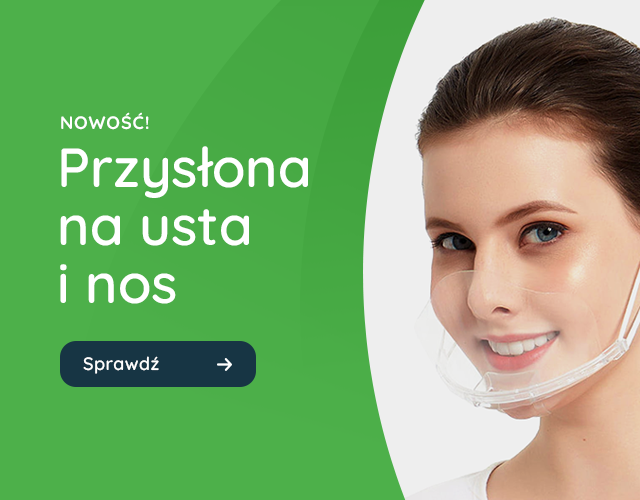
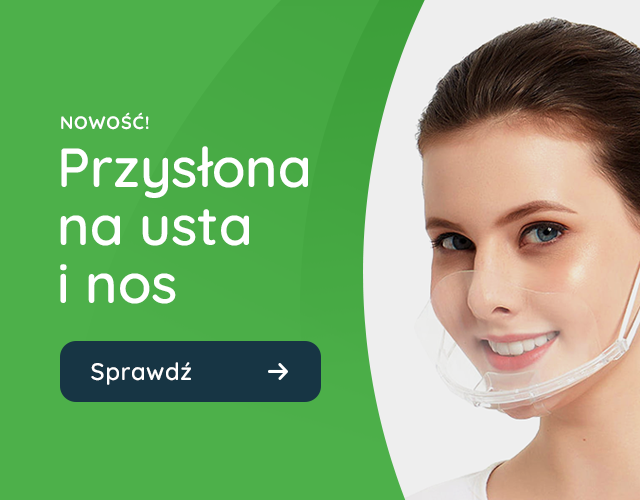
Added slider

Changed region(s): [[0.0938, 0.66, 0.5, 0.81]]

diff --git a/css/custom-style.css b/css/custom-style.css
@@ -44,9 +44,33 @@ a .img-container img:hover {
 
 .slider-section {
   background-position: center;
-  align-items: center; }
-  .slider-section img {
-    border-radius: 16px; }
+  align-items: center;
+  position: relative;
+  border-radius: 16px;
+  -webkit-border-radius: 16px;
+  -moz-border-radius: 16px;
+  overflow: hidden; }
+  .slider-section .col {
+    padding: 0; }
+  .slider-section .tns-nav {
+    position: absolute;
+    top: 88%;
+    left: 50%;
+    transform: translateX(-50%);
+    z-index: 2; }
+    .slider-section .tns-nav > button {
+      width: 12px;
+      height: 12px;
+      background: none;
+      border: solid 3px #8b8b8b;
+      border-radius: 999px;
+      -webkit-border-radius: 999px;
+      -moz-border-radius: 999px;
+      margin: 5px;
+      padding: 0;
+      overflow: hidden; }
+    .slider-section .tns-nav .tns-nav-active {
+      border-color: #0f2735; }
 
 .product-section img {
   border-radius: 16px;
@@ -105,7 +129,7 @@ a .img-container img:hover {
   .product-section .product-container .price-old {
     font-size: 1rem;
     font-weight: 300;
-    color: grey;
+    color: #8b8b8b;
     text-decoration: line-through; }
 
 .news-section img {
@@ -119,7 +143,7 @@ a .img-container img:hover {
     line-height: 1.5rem;
     margin-bottom: 15px; }
   .news-section .news-container .news-info {
-    color: grey;
+    color: #8b8b8b;
     margin-bottom: 15px; }
   .news-section .news-container .more-link {
     color: #4db04a;
@@ -139,7 +163,7 @@ a .img-container img:hover {
   .aboutus-section h1, .aboutus-section h2 {
     color: white; }
   .aboutus-section p {
-    color: #e2e2e2;
+    color: #f0f0f0;
     text-align: justify; }
 
 .contact-section .contact-info {
@@ -163,5 +187,30 @@ a .img-container img:hover {
     .contact-section .contact-action .contact-data i {
       margin-right: 10px;
       color: #4db04a; }
+
+.footer-section {
+  width: 100%;
+  padding: 12px 0;
+  background-color: #f0f0f0;
+  z-index: 99; }
+  .footer-section .container, .footer-section .container-fluid {
+    display: flex;
+    flex-wrap: wrap;
+    align-items: center;
+    justify-content: space-between;
+    padding: 0 30px; }
+    .footer-section .container .footer-copyrights, .footer-section .container-fluid .footer-copyrights {
+      text-align: center; }
+    .footer-section .container nav, .footer-section .container-fluid nav {
+      text-align: center; }
+      .footer-section .container nav ul li, .footer-section .container-fluid nav ul li {
+        display: inline;
+        margin: 10px; }
+        .footer-section .container nav ul li a:hover, .footer-section .container-fluid nav ul li a:hover {
+          text-decoration: underline; }
+        @media (max-width: 960px) {
+          .footer-section .container nav ul li, .footer-section .container-fluid nav ul li {
+            display: block;
+            text-align: center; } }
 
 /*# sourceMappingURL=custom-style.css.map */

diff --git a/css/grid-system.css b/css/grid-system.css
@@ -16,9 +16,9 @@
 .color-black {
   color: black !important; }
 .color-grey {
-  color: grey !important; }
+  color: #8b8b8b !important; }
 .color-light-grey {
-  color: #e2e2e2 !important; }
+  color: #f0f0f0 !important; }
 .color-dark-grey {
   color: #363636 !important; }
 
@@ -35,9 +35,9 @@
 .bg-black {
   background-color: black !important; }
 .bg-grey {
-  background-color: grey !important; }
+  background-color: #8b8b8b !important; }
 .bg-light-grey {
-  background-color: #e2e2e2 !important; }
+  background-color: #f0f0f0 !important; }
 .bg-dark-grey {
   background-color: #363636 !important; }
 
@@ -3586,7 +3586,7 @@ body {
   padding: 22px 0;
   background-color: white;
   color: #363636;
-  border-bottom: solid 1px #e2e2e2;
+  border-bottom: solid 1px #f0f0f0;
   z-index: 99;
   transition: 0.3s;
   -webkit-transition: 0.3s;
@@ -3655,7 +3655,7 @@ body {
       width: 12px;
       height: 12px;
       background: none;
-      border: solid 3px grey;
+      border: solid 3px #8b8b8b;
       border-radius: 999px;
       -webkit-border-radius: 999px;
       -moz-border-radius: 999px;
@@ -3738,8 +3738,8 @@ body {
       color: #091821; }
   .btn-light-outlined {
     background: none;
-    border-color: #e2e2e2;
-    color: #e2e2e2; }
+    border-color: #f0f0f0;
+    color: #f0f0f0; }
     .btn-light-outlined:hover {
       border-color: #ffffff;
       color: white; }
@@ -3763,7 +3763,7 @@ body {
 
 .card {
   background-color: white;
-  border: solid 1px #e2e2e2;
+  border: solid 1px #f0f0f0;
   padding: 15px;
   display: flex;
   flex-direction: column;
@@ -3820,7 +3820,7 @@ body {
       font-weight: bold; }
     .card .card-content .card-subtitle {
       font-size: 0.9rem;
-      color: grey; }
+      color: #8b8b8b; }
     .card .card-content .card-main-text {
       color: #363636; }
   .card .card-links {
@@ -3837,12 +3837,12 @@ body {
 
 .faq {
   width: 100%;
-  border: solid 1px #e2e2e2;
+  border: solid 1px #f0f0f0;
   border-radius: 16px;
   -webkit-border-radius: 16px;
   -moz-border-radius: 16px; }
   .faq .faq-title {
-    background-color: #efefef;
+    background-color: #fdfdfd;
     cursor: pointer;
     padding: 15px;
     display: flex;
@@ -3876,7 +3876,7 @@ body {
       -moz-border-radius-bottomleft: 16px; }
     .faq .faq-title:hover {
       color: #4db04a;
-      background-color: #e2e2e2; }
+      background-color: #f0f0f0; }
     .faq .faq-title .faq_arrow {
       max-height: 1rem;
       margin-left: 1rem;
@@ -3899,9 +3899,9 @@ footer {
   width: 100%;
   padding: 12px 0;
   background-color: white;
-  color: grey;
+  color: #8b8b8b;
   z-index: 99;
-  border-top: solid 1px #e2e2e2;
+  border-top: solid 1px #f0f0f0;
   transition: 0.3s;
   -webkit-transition: 0.3s;
   -moz-transition: 0.3s; }

diff --git a/index.html b/index.html
@@ -17,7 +17,7 @@
     <header>
         <div class="container">
 
-            <dv class="row logo-menu-section ph-6">
+            <dv class="row logo-menu-section">
 
                 <a href="#">
                     <img src="img/logo-dark.svg" alt="Piambo+" class="logo">
@@ -45,14 +45,21 @@
             </dv>
 
             
-                <div class="row slider-section">
-                    <div class="col">
-                        <a class="img-container" href="#">
+            <div class="row slider-section">
+                <div class="col">
+                    <div class="slider-items">
+                        <a class="img-container slider-item" href="#">
+                            <img src="img/slider.png" alt="slider" class="display-sm-none">
+                            <img src="img/slider-mobile.png" alt="slider" class="display-none display-sm-block">
+                        </a>
+                        
+                        <a class="img-container slider-item" href="#">
                             <img src="img/slider.png" alt="slider" class="display-sm-none">
                             <img src="img/slider-mobile.png" alt="slider" class="display-none display-sm-block">
                         </a>
                     </div>
                 </div>
+            </div>
 
         </div>
     </header>
@@ -267,14 +274,15 @@
 
     </main>
 
-
-
-
-
-    <footer>
+    <footer class="footer-section">
         <div class="container justify-content-md-center">
             <span class="footer-copyrights col-md-12 order-md-2 mv-2">&copy 2020 by Piambo+. All rights reserved.</span>
             <nav class="col-md-12 order-md-1">
+
+                <ul>
+                    <li><a href="#">Regulamin</a></li>
+                    <li><a href="#">Polityka prywatności</a></li>
+                </ul>
 
             </nav>
             <a class="link-top display-md-none" href="#">
@@ -283,6 +291,7 @@
         </div>
     </footer>
 
+    <script src="js/tiny-slider.js"></script>
     <script src="js/script.js"></script>
 
 </body>

diff --git a/sass/custom-style.scss b/sass/custom-style.scss
@@ -85,9 +85,35 @@ a .img-container img {
 .slider-section {
     background-position: center;
     align-items: center;
+    position: relative;
+    @include border-radius($global-border-radius);
+    overflow: hidden;
 
-    img {
-        border-radius: $global-border-radius;
+    .col {
+        padding: 0;
+    }
+
+    .tns-nav {
+        position: absolute;
+        top: 88%;
+        left: 50%;
+        transform: translateX(-50%);
+        z-index: 2;
+
+        & > button {
+            width: 12px;
+            height: 12px;
+            background: none;
+            border: solid 3px $color-grey;
+            @include border-radius(999px);
+            margin: 5px;
+            padding: 0;
+            overflow: hidden;
+        }
+
+        .tns-nav-active {
+            border-color: $color-secondary; 
+        }
     }
 }
 
@@ -262,4 +288,43 @@ a .img-container img {
         }
     }
 
+}
+
+.footer-section {
+    width: 100%;
+    padding: 12px 0;
+    background-color: $color-light-grey;
+    z-index: 99;
+    
+    .container, .container-fluid {
+        display: flex;
+        flex-wrap: wrap;
+        align-items: center;
+        justify-content: space-between;
+        padding: 0 $column-gap;
+
+        .footer-copyrights {
+            text-align: center;
+        }
+
+        nav {
+            text-align: center;
+
+            ul {
+
+                li {
+                    display: inline;
+                    margin: 10px;
+    
+                    a:hover {
+                        text-decoration: underline;
+                    }
+                    @media (max-width: $breakpoint-medium) {
+                        display: block;
+                        text-align: center;
+                    }
+                } 
+            }
+        }
+    }
 }

diff --git a/sass/system/_settings.scss b/sass/system/_settings.scss
@@ -18,8 +18,8 @@ $color-primary: #4db04a;
 $color-dark-primary: darken($color-primary, 20%);
 $color-secondary: #0f2735;
 $color-dark-secondary: darken($color-secondary, 20%);
-$color-light-grey: #e2e2e2;
-$color-grey: grey;
+$color-light-grey: #f0f0f0;
+$color-grey: rgb(139, 139, 139);
 $color-dark-grey: #363636;
 $color-red: #d42349;
 $color-yellow: #f1c226;

diff --git a/js/script.js b/js/script.js
@@ -38,13 +38,3 @@ function toggleFaqItem(element) {
     faqArrow.classList.toggle("faq-arrow-open");
     faqItem.classList.toggle("faq-content-open");
 }
-
-/*
-new Glide('.glide', {
-    type: 'carousel',
-    autoplay: 5000,
-    animationDuration: 1000,
-    hoverpause: false,
-    gap: 0,
-    classes: { activeNav: 'bullet-active' }
-}).mount();*/
